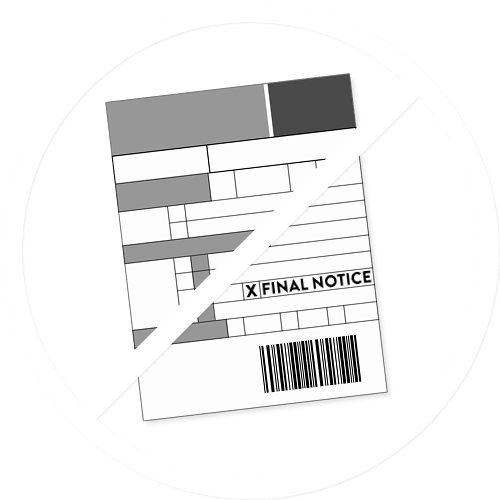
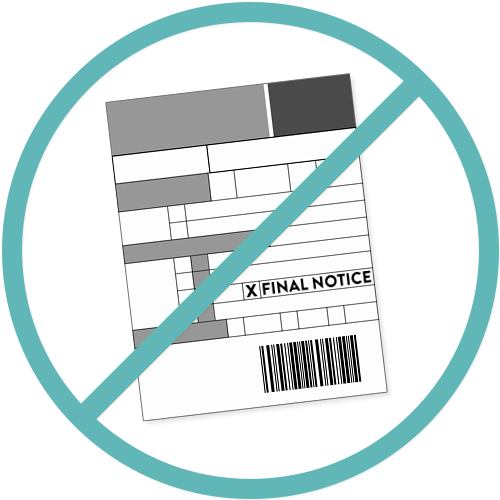
adj

Changed region(s): [[0.0, 0.0, 1.0, 1.0]]

diff --git a/blocbox/static/blocbox/css/jb_bootstrap_customization.css b/blocbox/static/blocbox/css/jb_bootstrap_customization.css
@@ -1294,7 +1294,7 @@ footer {
     color: rgb(97, 183, 184);
 }
 .pro-slip-circle {
-    background-color: rgb(97, 183, 184);
+    background-color: transparent;
     background-image: url('/static/blocbox/images/UPS-Slip.png'); 
     color: white;
     border-radius: 100px;
